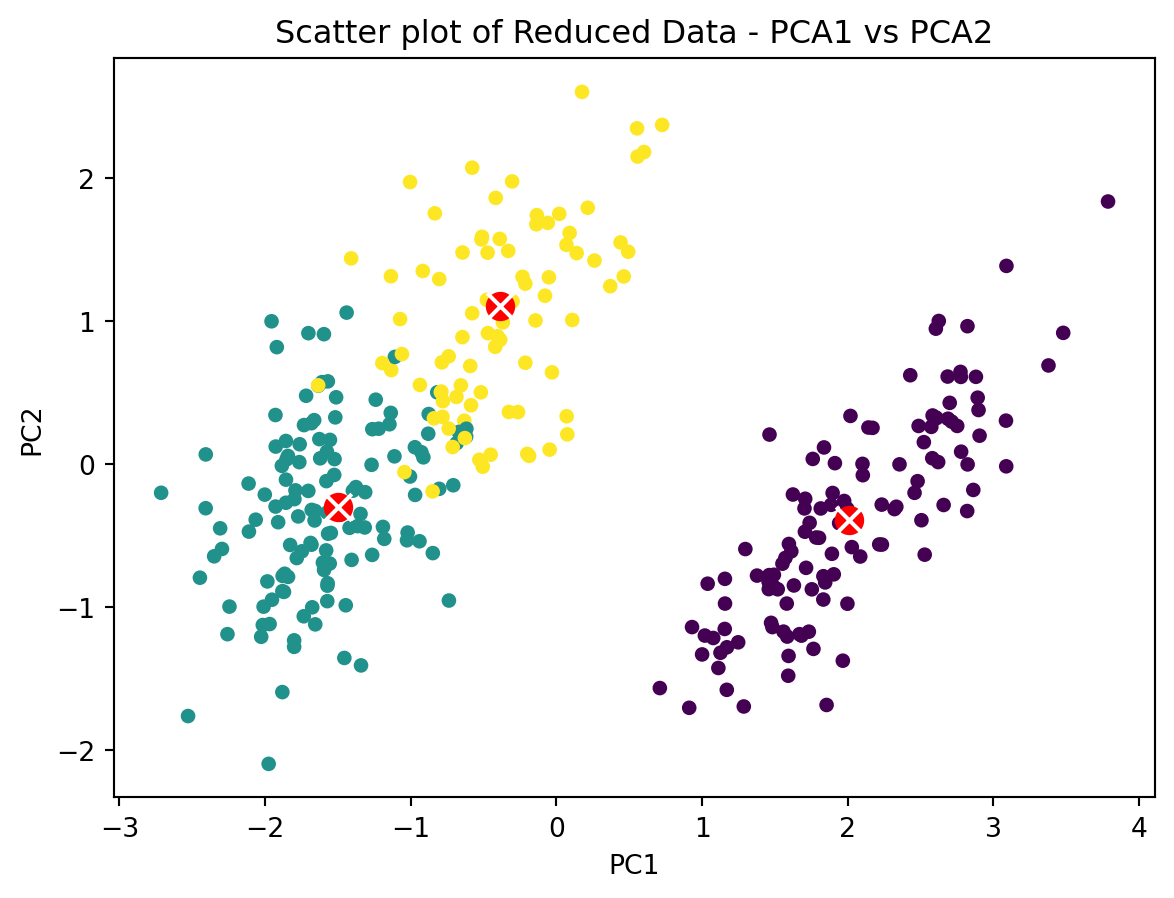
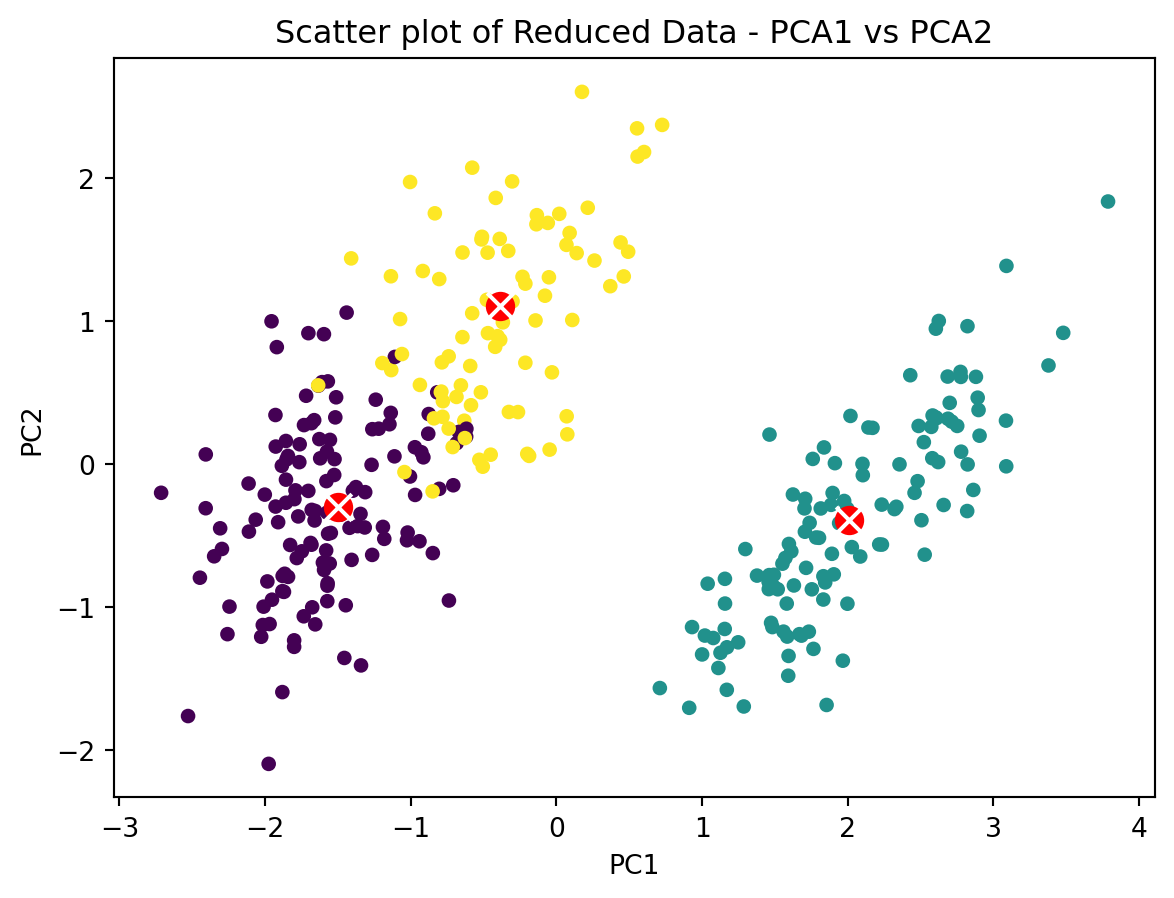
Built site for gh-pages

diff --git a/posts/Clustering/index.html b/posts/Clustering/index.html
@@ -7,7 +7,7 @@
 <meta name="viewport" content="width=device-width, initial-scale=1.0, user-scalable=yes">
 
 <meta name="author" content="Sai Sundeep Rayidi">
-<meta name="dcterms.date" content="2023-10-05">
+<meta name="dcterms.date" content="2023-11-29">
 
 <title>Sai’s ML blog - Unsupervised Learning: Clustering Using K-Means and Gaussian Mixture Models</title>
 <style>
@@ -164,10 +164,9 @@ pre > code.sourceCode > span > a:first-child::before { text-decoration: underlin
       <h1 class="title">Unsupervised Learning: Clustering Using K-Means and Gaussian Mixture Models</h1>
                                 <div class="quarto-categories">
                 <div class="quarto-category">clustering</div>
-                <div class="quarto-category">code</div>
-                <div class="quarto-category">scatter plot</div>
                 <div class="quarto-category">analysis</div>
                 <div class="quarto-category">visualization</div>
+                <div class="quarto-category">K-Means</div>
               </div>
                   </div>
   </div>
@@ -185,7 +184,7 @@ pre > code.sourceCode > span > a:first-child::before { text-decoration: underlin
       <div>
       <div class="quarto-title-meta-heading">Published</div>
       <div class="quarto-title-meta-contents">
-        <p class="date">October 5, 2023</p>
+        <p class="date">November 29, 2023</p>
       </div>
     </div>
     
@@ -214,9 +213,9 @@ pre > code.sourceCode > span > a:first-child::before { text-decoration: underlin
 </ul></li>
 <li>Gaussian Mixture Models</li>
 </ul>
-<section id="import-and-analyze-diamonds-dataset" class="level2">
-<h2 class="anchored" data-anchor-id="import-and-analyze-diamonds-dataset">1. Import and Analyze Diamonds Dataset</h2>
-<p>The diamonds dataset is available in the seaborn visualization package. Let’s load the dataset and analyze its features and instances.</p>
+<section id="import-and-analyze-penguins-dataset" class="level2">
+<h2 class="anchored" data-anchor-id="import-and-analyze-penguins-dataset">1. Import and Analyze Penguins Dataset</h2>
+<p>The penguins dataset is available in the seaborn visualization package. Let’s load the dataset and analyze its features and instances.</p>
 <div class="cell" data-executetime="{&quot;end_time&quot;:&quot;2023-11-29T13:22:27.366216300Z&quot;,&quot;start_time&quot;:&quot;2023-11-29T13:22:27.334241700Z&quot;}" data-execution_count="1">
 <div class="sourceCode cell-code" id="cb1"><pre class="sourceCode python code-with-copy"><code class="sourceCode python"><span id="cb1-1"><a href="#cb1-1" aria-hidden="true" tabindex="-1"></a><span class="im">import</span> numpy <span class="im">as</span> np</span>
 <span id="cb1-2"><a href="#cb1-2" aria-hidden="true" tabindex="-1"></a><span class="im">import</span> pandas <span class="im">as</span> pd</span>
@@ -367,8 +366,8 @@ sex                                 0.0</code></pre>
 <span id="cb9-46"><a href="#cb9-46" aria-hidden="true" tabindex="-1"></a>plt.title(<span class="st">"Scatter plot of Reduced Data - PCA1 vs PCA3"</span>)</span></code><button title="Copy to Clipboard" class="code-copy-button"><i class="bi"></i></button></pre></div>
 <div class="cell-output cell-output-stdout">
 <pre><code>The Cluster Centers are - 
-[[ 2.01297608 -0.39402785 -0.03586763]
- [-1.58950101 -0.3000391  -0.2218791 ]
+[[-1.58950101 -0.3000391  -0.2218791 ]
+ [ 2.01297608 -0.39402785 -0.03586763]
  [-0.39177408  1.02255234  0.3941968 ]]</code></pre>
 </div>
 <div class="cell-output cell-output-display" data-execution_count="6">
@@ -465,7 +464,7 @@ Score:  -334.92198044554704</code></pre>
 <span id="cb19-5"><a href="#cb19-5" aria-hidden="true" tabindex="-1"></a><span class="bu">print</span>(<span class="ss">f"Weights of Clusters from Raw Data: </span><span class="ch">\n</span><span class="ss"> </span><span class="sc">{</span>raw_weights<span class="sc">}</span><span class="ss">"</span>)</span></code><button title="Copy to Clipboard" class="code-copy-button"><i class="bi"></i></button></pre></div>
 <div class="cell-output cell-output-stdout">
 <pre><code>Weights of Clusters formed by GMM: 
-         [19.94 35.74 44.32]
+         [35.74 44.32 19.94]
 
 Weights of Clusters from Raw Data: 
  species
@@ -481,22 +480,22 @@ Name: count, dtype: float64</code></pre>
 <span id="cb21-2"><a href="#cb21-2" aria-hidden="true" tabindex="-1"></a><span class="bu">print</span>(<span class="ss">f"Covariance Matrix for each corresponding distribution: </span><span class="ch">\n</span><span class="ss"> </span><span class="sc">{</span>(gm.covariances_)<span class="sc">.</span><span class="bu">round</span>(<span class="dv">3</span>)<span class="sc">}</span><span class="ss">"</span>)</span></code><button title="Copy to Clipboard" class="code-copy-button"><i class="bi"></i></button></pre></div>
 <div class="cell-output cell-output-stdout">
 <pre><code>Cluster Centroids: 
- [[-0.344  1.039  0.714]
- [ 2.013 -0.394 -0.036]
- [-1.468 -0.15  -0.292]]
+ [[ 2.013 -0.394 -0.036]
+ [-1.468 -0.15  -0.292]
+ [-0.344  1.039  0.714]]
 
 Covariance Matrix for each corresponding distribution: 
- [[[ 0.267  0.241 -0.1  ]
-  [ 0.241  0.54  -0.096]
-  [-0.1   -0.096  0.208]]
-
- [[ 0.394  0.372 -0.159]
+ [[[ 0.394  0.372 -0.159]
   [ 0.372  0.504 -0.176]
   [-0.159 -0.176  0.196]]
 
  [[ 0.28   0.173 -0.087]
   [ 0.173  0.472 -0.203]
-  [-0.087 -0.203  0.265]]]</code></pre>
+  [-0.087 -0.203  0.265]]
+
+ [[ 0.267  0.241 -0.1  ]
+  [ 0.241  0.54  -0.096]
+  [-0.1   -0.096  0.208]]]</code></pre>
 </div>
 </div>
 <div class="cell" data-executetime="{&quot;end_time&quot;:&quot;2023-11-29T19:44:59.008190800Z&quot;,&quot;start_time&quot;:&quot;2023-11-29T19:44:58.882140800Z&quot;}" data-execution_count="14">

diff --git a/index.html b/index.html
@@ -422,7 +422,7 @@ Sai Sundeep Rayidi
 </a>
 </div>
 </div>
-<div class="quarto-post image-right" data-index="5" data-categories="clustering,analysis,visualization,K-Means" data-listing-date-sort="1701234000000" data-listing-file-modified-sort="1701289083643" data-listing-date-modified-sort="NaN" data-listing-reading-time-sort="11">
+<div class="quarto-post image-right" data-index="5" data-categories="clustering,analysis,visualization,K-Means" data-listing-date-sort="1701234000000" data-listing-file-modified-sort="1701289456982" data-listing-date-modified-sort="NaN" data-listing-reading-time-sort="11">
 <div class="thumbnail">
 <p><a href="./posts/Clustering/index.html"> <img src="./posts/Clustering/clustering.png" class="thumbnail-image"> </a></p>
 </div>
